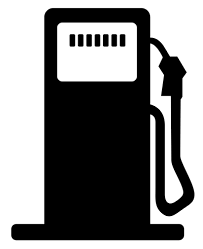
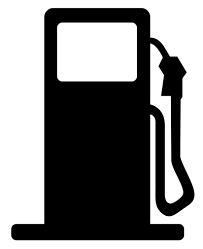
Traffic lights (Plus Speed cameras & Fuel station) can set to off or on as of this revision.
resolves #19 Show traffic lights on the map

Changed region(s): [[0.3251, 0.1124, 0.6207, 0.1968]]

diff --git a/ui/app/src/services/map.service.ts b/ui/app/src/services/map.service.ts
@@ -11,7 +11,7 @@ import 'moment-duration-format';
 import { AddressPopup } from '../pages';
 import { TILE_API_BASE_URL, ROUTE_API_BASE_URL, OVERPASS_API_BASE_URL } from '../app/config';
 import { GeocodingService } from '.';
-import { Settings, GeoUtil } from '../providers';
+import { Settings, GeoUtil, OverpassUtil } from '../providers';
 import { TehranMainTrafficSpecification,
          TehranEvenOddTrafficSpecification } from '../domain/model/tehran';
 import { AddressDTO, LatLng, UserLocationDTO } from '../domain/model';
@@ -28,7 +28,7 @@ export class MapService {
   highlightLayer: any = new L.LayerGroup([]);
   overpassLayer: any = new L.LayerGroup([]);
   popupsLayer: any = new L.LayerGroup([]);
-  speedCameraLayer: any;
+  overpassQuery: any = new L.LayerGroup([]);
   currentZoom: number;
   popupRef: ComponentRef<AddressPopup>;
   isCenterToCurrentLocation: boolean;
@@ -39,7 +39,7 @@ export class MapService {
   destination: AddressDTO;
 
   constructor(private resolver: ComponentFactoryResolver, private injector: Injector,
-              private applicationRef: ApplicationRef,
+              private applicationRef: ApplicationRef, private overpassUtil: OverpassUtil,
               private geocodingService: GeocodingService, private settings: Settings) {
     this.initCurrentZoom();
   }
@@ -105,36 +105,13 @@ export class MapService {
       }
     });
 
-    let me = this;
-    this.speedCameraLayer = new L.OverPassLayer({
-       endPoint: OVERPASS_API_BASE_URL,
-       query: '(node({{bbox}})[highway=speed_camera];node({{bbox}})[highway=traffic_signals];node({{bbox}})[amenity=fuel];);(._;>;);out qt;',
-       minZoom: 15,
-       timeout: 60 * 1000, // Milliseconds
-       retryOnTimeout: false,
-       minZoomIndicatorEnabled: false,
-       debug: false,
-       onSuccess: function(data) {
-         for (let i=0; i < data.elements.length; i++) {
-           let pos, popupContent, popup, marker,
-           e = data.elements[i];
-           if (e.id in this._ids) continue;
-           this._ids[e.id] = true;
-
-           pos = new L.LatLng(e.lat, e.lon);
-           popupContent = this._getPoiPopupHTML(e.tags, e.id);
-           popup = L.popup().setContent(popupContent);
-           if (e.tags['highway'] === 'traffic_signals') {
-             this._markers.addLayer(L.marker(pos, { icon: me.trafficLightsIcon}).bindPopup(popup));
-           }
-           else if (e.tags['amenity'] === 'fuel') {
-             this._markers.addLayer(L.marker(pos, { icon: me.amenityFuelIcon})).bindPopup(popup)
-           }
-           else {
-             this._markers.addLayer(L.marker(pos, { icon: me.speedCameraIcon}).bindPopup(popup));
-           }
-         }
-       }
+    this.initalizeOverpassQuery();
+    this.overpassUtil.onOverpassSettingsChangeEvent.subscribe(() => {
+      this.initalizeOverpassQuery();
+      this.overpassLayer.clearLayers();
+      if (this.currentZoom > 14) {
+        this.overpassLayer.addLayer(this.overpassQuery);
+      }
     });
 
     this.currentLocationLayer.addTo(this.map);
@@ -158,7 +135,7 @@ export class MapService {
         this.settings.setValue(Settings.LAST_ZOOM_LEVEL_KEY, this.currentZoom);
         if (this.currentZoom > 14) {
           if (this.overpassLayer.getLayers().length === 0) {
-            this.overpassLayer.addLayer(this.speedCameraLayer);
+            this.overpassLayer.addLayer(this.overpassQuery);
           }
         } else {
           this.overpassLayer.clearLayers();
@@ -367,6 +344,44 @@ export class MapService {
     }
   }
 
+  initalizeOverpassQuery() {
+    let me = this;
+    if (this.overpassUtil.isNecessary()) {
+      this.overpassQuery = new L.OverPassLayer({
+         endPoint: OVERPASS_API_BASE_URL,
+         query: this.overpassUtil.resolveQuery(),
+         minZoom: 15,
+         timeout: 60 * 1000, // Milliseconds
+         retryOnTimeout: false,
+         minZoomIndicatorEnabled: false,
+         debug: false,
+         onSuccess: function(data) {
+           for (let i=0; i < data.elements.length; i++) {
+             let pos, popupContent, popup, marker,
+             e = data.elements[i];
+             if (e.id in this._ids) continue;
+             this._ids[e.id] = true;
+
+             pos = new L.LatLng(e.lat, e.lon);
+             popupContent = this._getPoiPopupHTML(e.tags, e.id);
+             popup = L.popup().setContent(popupContent);
+             if (e.tags['highway'] === 'traffic_signals') {
+               this._markers.addLayer(L.marker(pos, { icon: me.trafficLightsIcon}).bindPopup(popup));
+             }
+             else if (e.tags['amenity'] === 'fuel') {
+               this._markers.addLayer(L.marker(pos, { icon: me.amenityFuelIcon})).bindPopup(popup)
+             }
+             else {
+               this._markers.addLayer(L.marker(pos, { icon: me.speedCameraIcon}).bindPopup(popup));
+             }
+           }
+         }
+      });
+    } else {
+      this.overpassQuery = new L.LayerGroup([]);
+    }
+  }
+
   LeafIcon = L.Icon.extend({
     options: {
       shadowUrl: 'assets/img/marker-shadow.png',
@@ -400,7 +415,8 @@ export class MapService {
   });
 
   amenityFuelIcon = new this.LeafIcon({
-    iconUrl: 'assets/img/amenity-fuel.png'
+    iconUrl: 'assets/img/amenity-fuel.png',
+    iconSize: [30, 41]
   });
 
   tehranMainTrafficZoneRectangle = L.rectangle(

diff --git a/ui/app/src/providers/overpass.util.ts b/ui/app/src/providers/overpass.util.ts
@@ -1,0 +1,70 @@
+import { Injectable, OnInit, EventEmitter } from '@angular/core';
+import { Settings } from './';
+
+@Injectable()
+export class OverpassUtil implements OnInit {
+
+  overpassShowSpeedCamera: boolean;
+  overpassShowFuelStation: boolean;
+  overpassShowTrafficLight: boolean;
+  onOverpassSettingsChangeEvent = new EventEmitter();
+
+  constructor(private settings: Settings) {
+    settings.onSettingsChangeEvent.subscribe(() => {
+      console.log("OnSettinsChange", settings.allSettings[Settings.OVERPASS_SHOW_TRAFFIC_LIGHT], this.overpassShowTrafficLight);
+      if (this.overpassShowSpeedCamera != settings.allSettings[Settings.OVERPASS_SHOW_SPEED_CAMERA]) {
+        this.overpassShowSpeedCamera = settings.allSettings[Settings.OVERPASS_SHOW_SPEED_CAMERA];
+        this.onOverpassSettingsChangeEvent.emit();
+      }
+      if (this.overpassShowFuelStation != settings.allSettings[Settings.OVERPASS_SHOW_FUEL_STATION]) {
+        this.overpassShowFuelStation = settings.allSettings[Settings.OVERPASS_SHOW_FUEL_STATION];
+        this.onOverpassSettingsChangeEvent.emit();
+      }
+      if (this.overpassShowTrafficLight != settings.allSettings[Settings.OVERPASS_SHOW_TRAFFIC_LIGHT]) {
+        this.overpassShowTrafficLight = settings.allSettings[Settings.OVERPASS_SHOW_TRAFFIC_LIGHT];
+        this.onOverpassSettingsChangeEvent.emit();
+      }
+    });
+  }
+
+  ngOnInit() {
+    this.overpassShowSpeedCamera = this.settings.allSettings[Settings.OVERPASS_SHOW_SPEED_CAMERA];
+    this.overpassShowFuelStation = this.settings.allSettings[Settings.OVERPASS_SHOW_FUEL_STATION];
+    this.overpassShowTrafficLight = this.settings.allSettings[Settings.OVERPASS_SHOW_TRAFFIC_LIGHT];
+  }
+
+  /**
+   * Create overpass query depends to user's settings.
+   * For instance, if speed-camera and fuel-station are active then result will be:
+   * '(node({{bbox}})[highway=speed_camera];node({{bbox}})[amenity=fuel];);(._;>;);out qt;'
+   */
+  resolveQuery() {
+    let query = '(';
+    if (this.overpassShowSpeedCamera) {
+      query += 'node({{bbox}})[highway=speed_camera];';
+    }
+    if (this.overpassShowFuelStation) {
+      query += 'node({{bbox}})[amenity=fuel];';
+    }
+    if (this.overpassShowTrafficLight) {
+      query += 'node({{bbox}})[highway=traffic_signals];'
+    }
+    query += ');(._;>;);out qt;';
+    return query;
+  }
+
+  isNecessary() {
+    let result = false;
+    if (this.overpassShowSpeedCamera) {
+      result = true;
+    }
+    if (this.overpassShowFuelStation) {
+      result = true;
+    }
+    if (this.overpassShowTrafficLight) {
+      result = true;
+    }
+    return result;
+  }
+
+}

diff --git a/ui/app/src/pages/settings/settings.html b/ui/app/src/pages/settings/settings.html
@@ -37,6 +37,9 @@
       <button ion-item [navPush]="subSettings" [navParams]="tehranProfile" *ngIf="options.city === 'THR'">
         {{ 'TEHRAN_SETTINGS_TITLE' | translate}}
       </button>
+      <button ion-item [navPush]="subSettings" [navParams]="mapSettings">
+        {{ 'MAP_SETTINGS_TITLE' | translate}}
+      </button>
 <!--  <ion-item>
         <ion-label>{{ 'GO_INVISIBLE' | translate }}</ion-label>
         <ion-toggle formControlName="userGoInvisible"></ion-toggle>
@@ -62,6 +65,20 @@
           <ion-option value="even">{{ 'EVEN' | translate }}</ion-option>
           <ion-option value="odd">{{ 'ODD' | translate }}</ion-option>
         </ion-select>
+      </ion-item>
+    </ion-list>
+    <ion-list *ngIf="page === 'mapSettings'">
+      <ion-item text-wrap>
+        <ion-label>{{ 'MAP_SHOW_SPEED_CAMERA' | translate }}</ion-label>
+        <ion-toggle formControlName="overpassShowSpeedCamera"></ion-toggle>
+      </ion-item>
+      <ion-item text-wrap>
+        <ion-label>{{ 'MAP_SHOW_FUEL_STATION' | translate }}</ion-label>
+        <ion-toggle formControlName="overpassShowFuelStation"></ion-toggle>
+      </ion-item>
+      <ion-item text-wrap>
+        <ion-label>{{ 'MAP_SHOW_TRAFFIC_LIGHT' | translate}}</ion-label>
+        <ion-toggle formControlName="overpassShowTrafficLight"></ion-toggle>
       </ion-item>
     </ion-list>
   </form>

diff --git a/ui/app/src/app/app.module.ts b/ui/app/src/app/app.module.ts
@@ -16,7 +16,7 @@ import { MyApp } from './app.component';
 import { SharedModule } from '../shared';
 
 import { GeocodingService, TrackingService, MapService, SignupService } from '../services';
-import { Settings, Favorites } from '../providers';
+import { Settings, Favorites, OverpassUtil } from '../providers';
 
 import { HomePage, AddressPopup, SettingsPage } from '../pages';
 
@@ -37,7 +37,10 @@ export function provideSettings(storage: Storage) {
     hasTehranMainTrafficCertificate: false,
     carPlateNumberEvenOrOdd: 'notset',
     lastZoomLevel: 18,
-    userGoInvisible: false
+    userGoInvisible: false,
+    overpassShowSpeedCamera: true,
+    overpassShowFuelStation: false,
+    overpassShowTrafficLight: false
   });
 }
 
@@ -67,6 +70,7 @@ export function providers() {
     MapService,
     SignupService,
     Favorites,
+    OverpassUtil,
 
     { provide: Settings, useFactory: provideSettings, deps: [Storage] },
     // Keep this to enable Ionic's runtime error handling during development

diff --git a/ui/app/src/pages/settings/settings.ts b/ui/app/src/pages/settings/settings.ts
@@ -27,6 +27,11 @@ export class SettingsPage implements OnInit {
     pageTitleKey: 'TEHRAN_SETTINGS_TITLE'
   }
 
+  mapSettings = {
+    page: 'mapSettings',
+    pageTitleKey: 'MAP_SETTINGS_TITLE'
+  }
+
   subSettings: any = SettingsPage;
 
   countries: string[];
@@ -61,6 +66,13 @@ export class SettingsPage implements OnInit {
           highlightTehranEvenOddTrafficZone: [this.options.highlightTehranEvenOddTrafficZone],
           hasTehranMainTrafficCertificate: [this.options.hasTehranMainTrafficCertificate],
           carPlateNumberEvenOrOdd: [this.options.carPlateNumberEvenOrOdd]
+        };
+        break;
+      case 'mapSettings':
+        group = {
+          overpassShowSpeedCamera: [this.options.overpassShowSpeedCamera],
+          overpassShowFuelStation: [this.options.overpassShowFuelStation],
+          overpassShowTrafficLight: [this.options.overpassShowTrafficLight]
         };
         break;
     }

diff --git a/ui/app/src/providers/settings.ts b/ui/app/src/providers/settings.ts
@@ -16,6 +16,10 @@ export class Settings {
   public static readonly CAR_PLATE_NUMBER_EVEN_OR_ODD: string = 'carPlateNumberEvenOrOdd';
   public static readonly USER_GO_INVISIBLE: string = 'userGoInvisible';
 
+  public static readonly OVERPASS_SHOW_SPEED_CAMERA = 'overpassShowSpeedCamera';
+  public static readonly OVERPASS_SHOW_FUEL_STATION = 'overpassShowFuelStation';
+  public static readonly OVERPASS_SHOW_TRAFFIC_LIGHT = 'overpassShowTrafficLight';
+
   settings: any;
 
   _defaults: any;

diff --git a/ui/app/src/providers/index.ts b/ui/app/src/providers/index.ts
@@ -1,3 +1,4 @@
 export { Settings } from './settings';
 export { Favorites } from './favorites';
 export { GeoUtil } from './geo.util';
+export { OverpassUtil } from './overpass.util';
